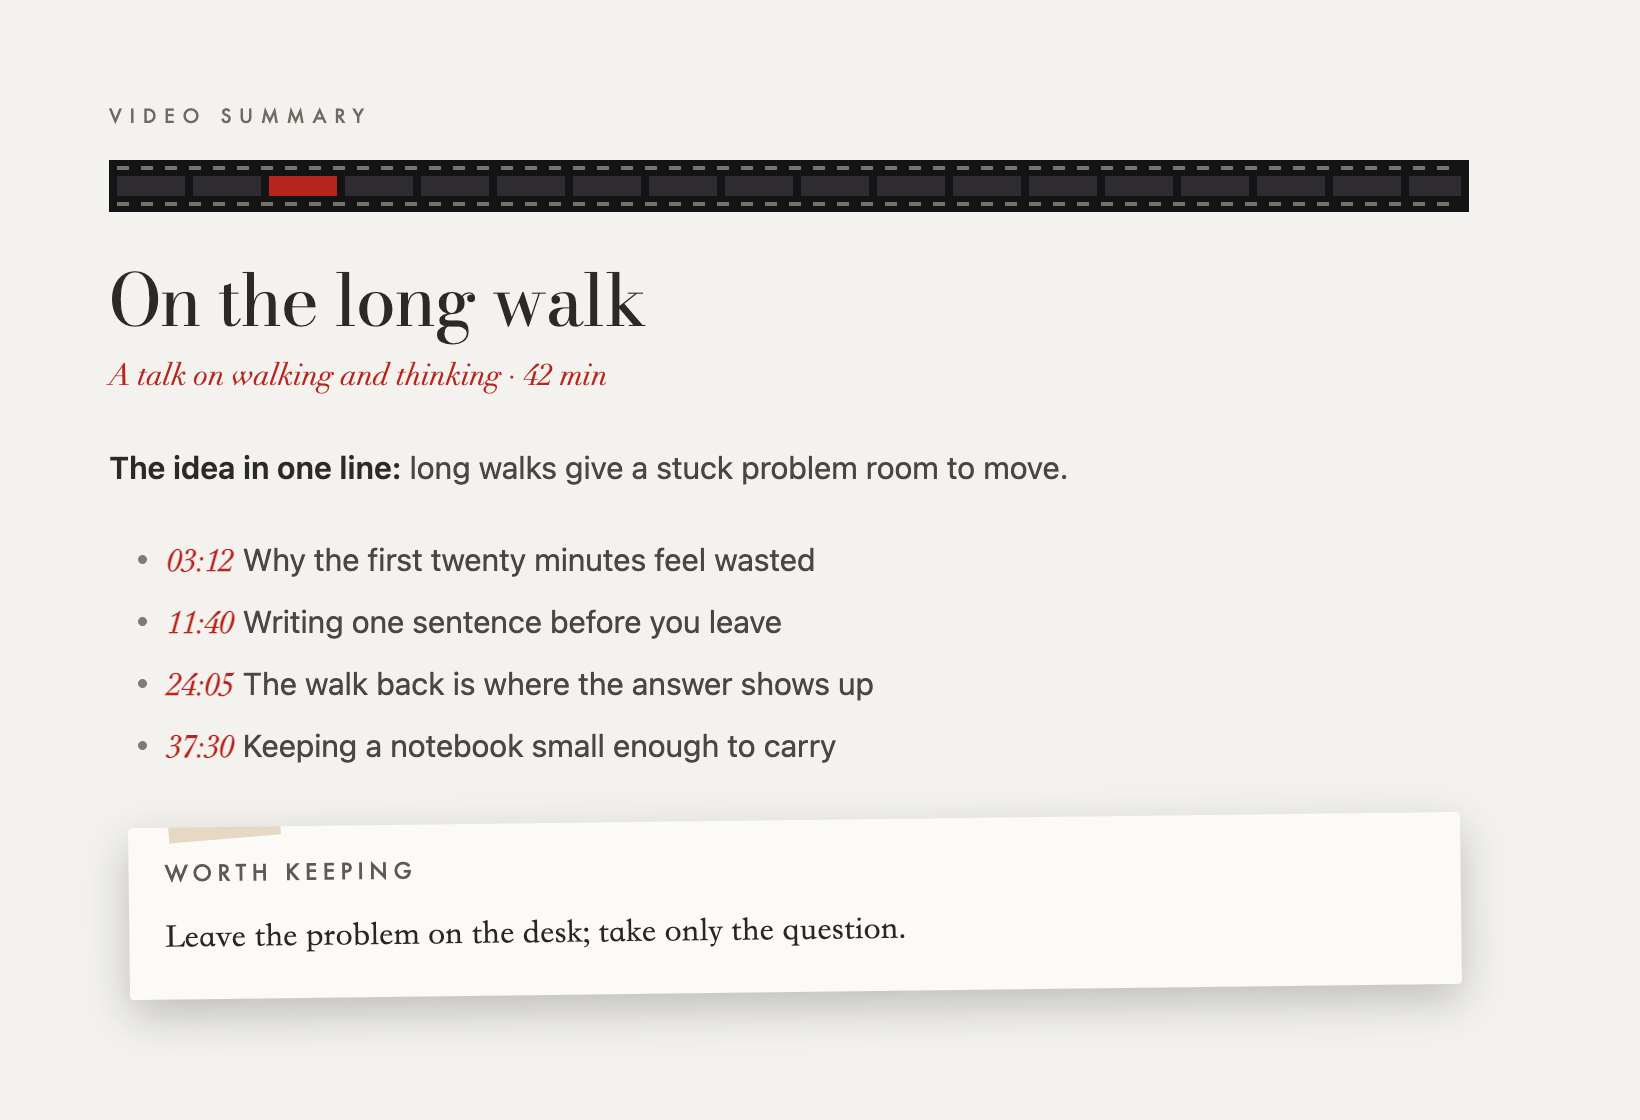
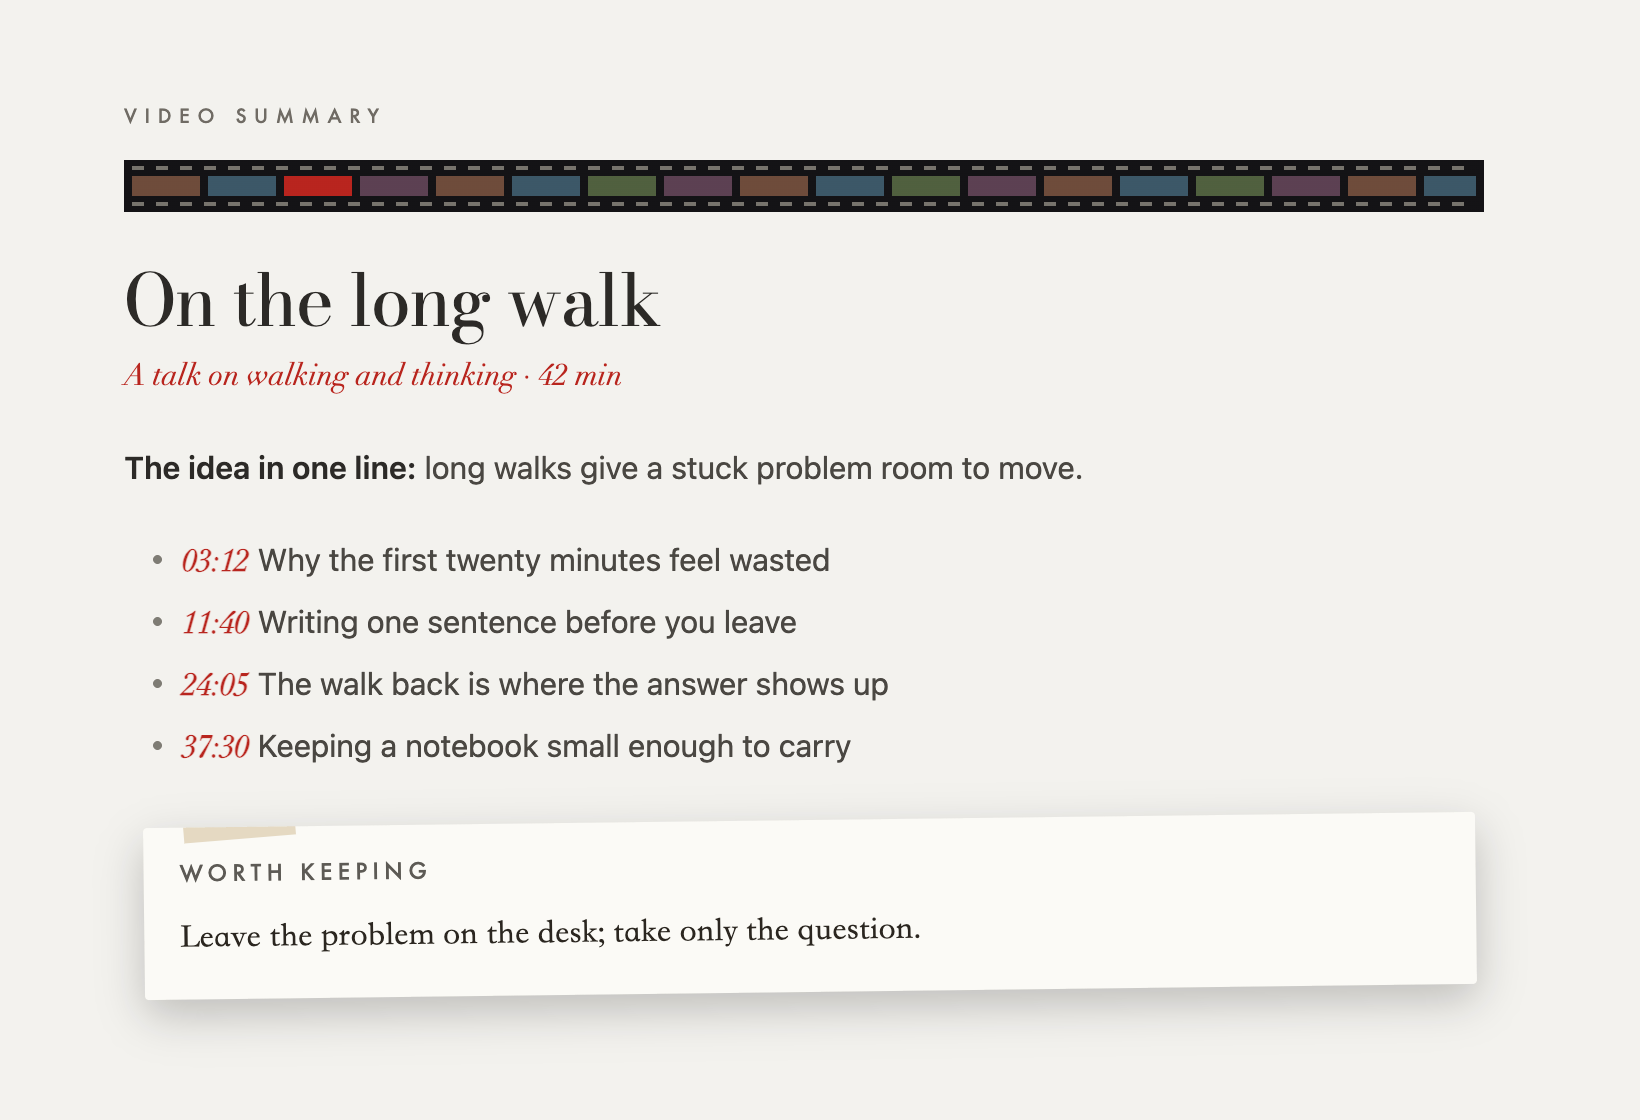
Balanced gallery cards, full stamps, coloured film frames

diff --git a/src/theme.src.css b/src/theme.src.css
@@ -978,8 +978,8 @@ body.is-mobile .markdown-preview-view.ih-card .markdown-preview-sizer { margin: 
 .markdown-source-view:is(.ih-film, .ih-clip) .cm-sizer::before { display: block; font: 400 9.5px/1.6 var(--ith-label); letter-spacing: .4em; text-transform: uppercase; color: var(--ith-mute); margin-bottom: 16px; }
 
 /* 15a. Video Summary: film base with two rows of sprocket holes and one red frame */
-:is(.markdown-preview-view, .markdown-source-view).ih-film { --ith-film-base: #141316; --ith-film-frame: #2e2c31; --ith-film-hole: #77736d; }
-.theme-dark :is(.markdown-preview-view, .markdown-source-view).ih-film { --ith-film-base: #050506; --ith-film-frame: #29272c; --ith-film-hole: #8d867b; }
+:is(.markdown-preview-view, .markdown-source-view).ih-film { --ith-film-base: #141316; --ith-film-hole: #77736d; --ith-film-f1: #6e4c3b; --ith-film-f2: #3c5768; --ith-film-f3: #50603f; --ith-film-f4: #5c4052; }
+.theme-dark :is(.markdown-preview-view, .markdown-source-view).ih-film { --ith-film-base: #050506; --ith-film-hole: #8d867b; --ith-film-f1: #5e4234; --ith-film-f2: #344b5a; --ith-film-f3: #445236; --ith-film-f4: #4e3747; }
 .markdown-preview-view.ih-film:not(.ih-card) .mod-header::before,
 .markdown-source-view.ih-film .cm-sizer::before {
   content: "Video Summary"; padding-bottom: 40px; margin-bottom: 22px;
@@ -987,7 +987,7 @@ body.is-mobile .markdown-preview-view.ih-card .markdown-preview-sizer { margin: 
     repeating-linear-gradient(90deg, var(--ith-film-hole) 0 6px, transparent 6px 12px) left 4px bottom 21px / calc(100% - 8px) 2px no-repeat,
     repeating-linear-gradient(90deg, var(--ith-film-hole) 0 6px, transparent 6px 12px) left 4px bottom 3px / calc(100% - 8px) 2px no-repeat,
     linear-gradient(var(--ith-acc), var(--ith-acc)) left 80px bottom 8px / 34px 10px no-repeat,
-    repeating-linear-gradient(90deg, var(--ith-film-frame) 0 34px, transparent 34px 38px) left 4px bottom 8px / calc(100% - 8px) 10px no-repeat,
+    repeating-linear-gradient(90deg, var(--ith-film-f1) 0 34px, transparent 34px 38px, var(--ith-film-f2) 38px 72px, transparent 72px 76px, var(--ith-film-f3) 76px 110px, transparent 110px 114px, var(--ith-film-f4) 114px 148px, transparent 148px 152px) left 4px bottom 8px / calc(100% - 8px) 10px no-repeat,
     linear-gradient(var(--ith-film-base), var(--ith-film-base)) left bottom / 100% 26px no-repeat;
 }
 :is(.markdown-rendered.ih-film, .ih-film .markdown-rendered) a.external-link:is([href*="?t="], [href*="&t="]) { font: italic 700 1em/1 var(--ith-disp); font-variant-numeric: lining-nums; letter-spacing: -.01em; color: var(--ith-acc); background: none; text-decoration: none; }

diff --git a/theme.css b/theme.css
@@ -983,8 +983,8 @@ body.is-mobile .markdown-preview-view.ih-card .markdown-preview-sizer { margin: 
 .markdown-source-view:is(.ih-film, .ih-clip) .cm-sizer::before { display: block; font: 400 9.5px/1.6 var(--ith-label); letter-spacing: .4em; text-transform: uppercase; color: var(--ith-mute); margin-bottom: 16px; }
 
 /* 15a. Video Summary: film base with two rows of sprocket holes and one red frame */
-:is(.markdown-preview-view, .markdown-source-view).ih-film { --ith-film-base: #141316; --ith-film-frame: #2e2c31; --ith-film-hole: #77736d; }
-.theme-dark :is(.markdown-preview-view, .markdown-source-view).ih-film { --ith-film-base: #050506; --ith-film-frame: #29272c; --ith-film-hole: #8d867b; }
+:is(.markdown-preview-view, .markdown-source-view).ih-film { --ith-film-base: #141316; --ith-film-hole: #77736d; --ith-film-f1: #6e4c3b; --ith-film-f2: #3c5768; --ith-film-f3: #50603f; --ith-film-f4: #5c4052; }
+.theme-dark :is(.markdown-preview-view, .markdown-source-view).ih-film { --ith-film-base: #050506; --ith-film-hole: #8d867b; --ith-film-f1: #5e4234; --ith-film-f2: #344b5a; --ith-film-f3: #445236; --ith-film-f4: #4e3747; }
 .markdown-preview-view.ih-film:not(.ih-card) .mod-header::before,
 .markdown-source-view.ih-film .cm-sizer::before {
   content: "Video Summary"; padding-bottom: 40px; margin-bottom: 22px;
@@ -992,7 +992,7 @@ body.is-mobile .markdown-preview-view.ih-card .markdown-preview-sizer { margin: 
     repeating-linear-gradient(90deg, var(--ith-film-hole) 0 6px, transparent 6px 12px) left 4px bottom 21px / calc(100% - 8px) 2px no-repeat,
     repeating-linear-gradient(90deg, var(--ith-film-hole) 0 6px, transparent 6px 12px) left 4px bottom 3px / calc(100% - 8px) 2px no-repeat,
     linear-gradient(var(--ith-acc), var(--ith-acc)) left 80px bottom 8px / 34px 10px no-repeat,
-    repeating-linear-gradient(90deg, var(--ith-film-frame) 0 34px, transparent 34px 38px) left 4px bottom 8px / calc(100% - 8px) 10px no-repeat,
+    repeating-linear-gradient(90deg, var(--ith-film-f1) 0 34px, transparent 34px 38px, var(--ith-film-f2) 38px 72px, transparent 72px 76px, var(--ith-film-f3) 76px 110px, transparent 110px 114px, var(--ith-film-f4) 114px 148px, transparent 148px 152px) left 4px bottom 8px / calc(100% - 8px) 10px no-repeat,
     linear-gradient(var(--ith-film-base), var(--ith-film-base)) left bottom / 100% 26px no-repeat;
 }
 :is(.markdown-rendered.ih-film, .ih-film .markdown-rendered) a.external-link:is([href*="?t="], [href*="&t="]) { font: italic 700 1em/1 var(--ith-disp); font-variant-numeric: lining-nums; letter-spacing: -.01em; color: var(--ith-acc); background: none; text-decoration: none; }

diff --git a/demo/30 Pieces/Interview.md b/demo/30 Pieces/Interview.md
@@ -1,0 +1,7 @@
+> [!chat] Interview
+> - **Host:** What made you start keeping a notebook?
+> - **Guest:** I kept forgetting the good ideas by Friday.
+> - **Host:** And now?
+> - **Guest:** Now I forget them on paper.
+> - **Host:** Do you read them again?
+> - **Guest:** On Sundays.

diff --git a/demo/40 Cards/Spaced repetition.md b/demo/40 Cards/Spaced repetition.md
@@ -9,4 +9,6 @@ Review a fact just before you would forget it. Each successful recall pushes the
 ## Why it works
 Effortful retrieval strengthens memory more than rereading.
 
+Space the reviews out: a day, three days, a week.
+
 #learning

diff --git a/demo/30 Pieces/A letter kept.md b/demo/30 Pieces/A letter kept.md
@@ -12,3 +12,5 @@ cssclasses:
 > - Answer the letter
 > - Buy stamps
 > - Press the mint leaves
+> - Water the window box
+> - Return the library book
